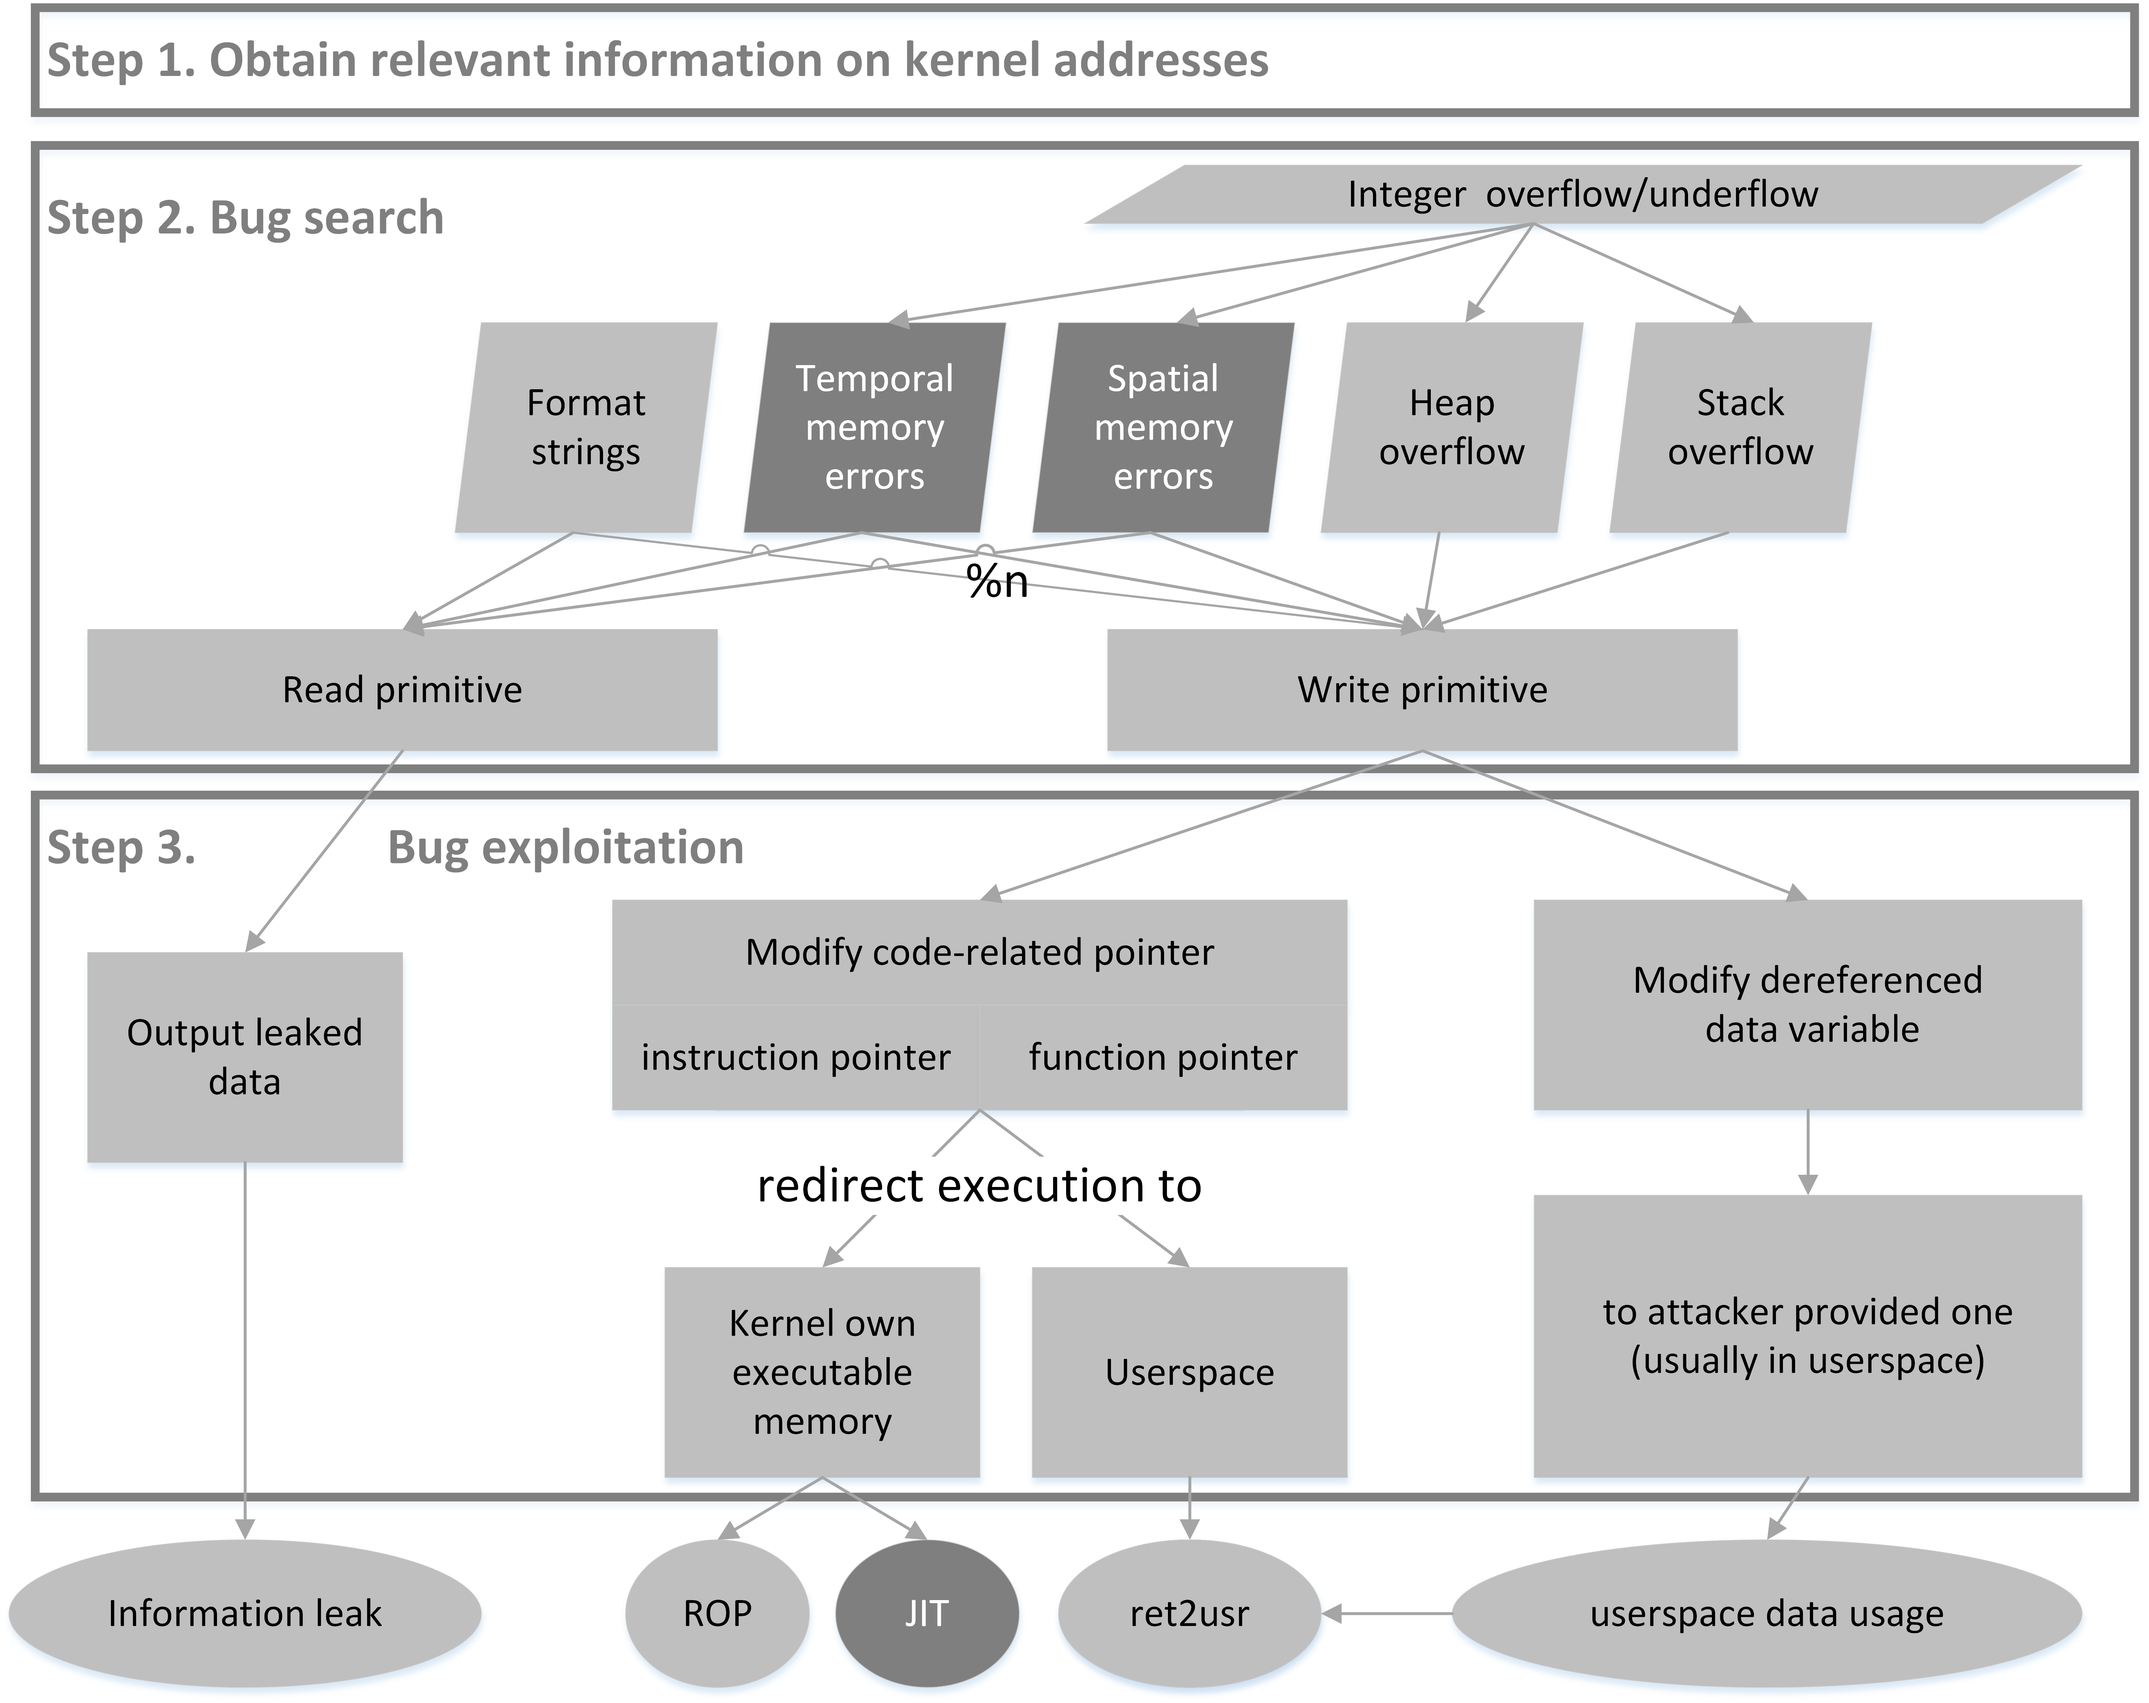
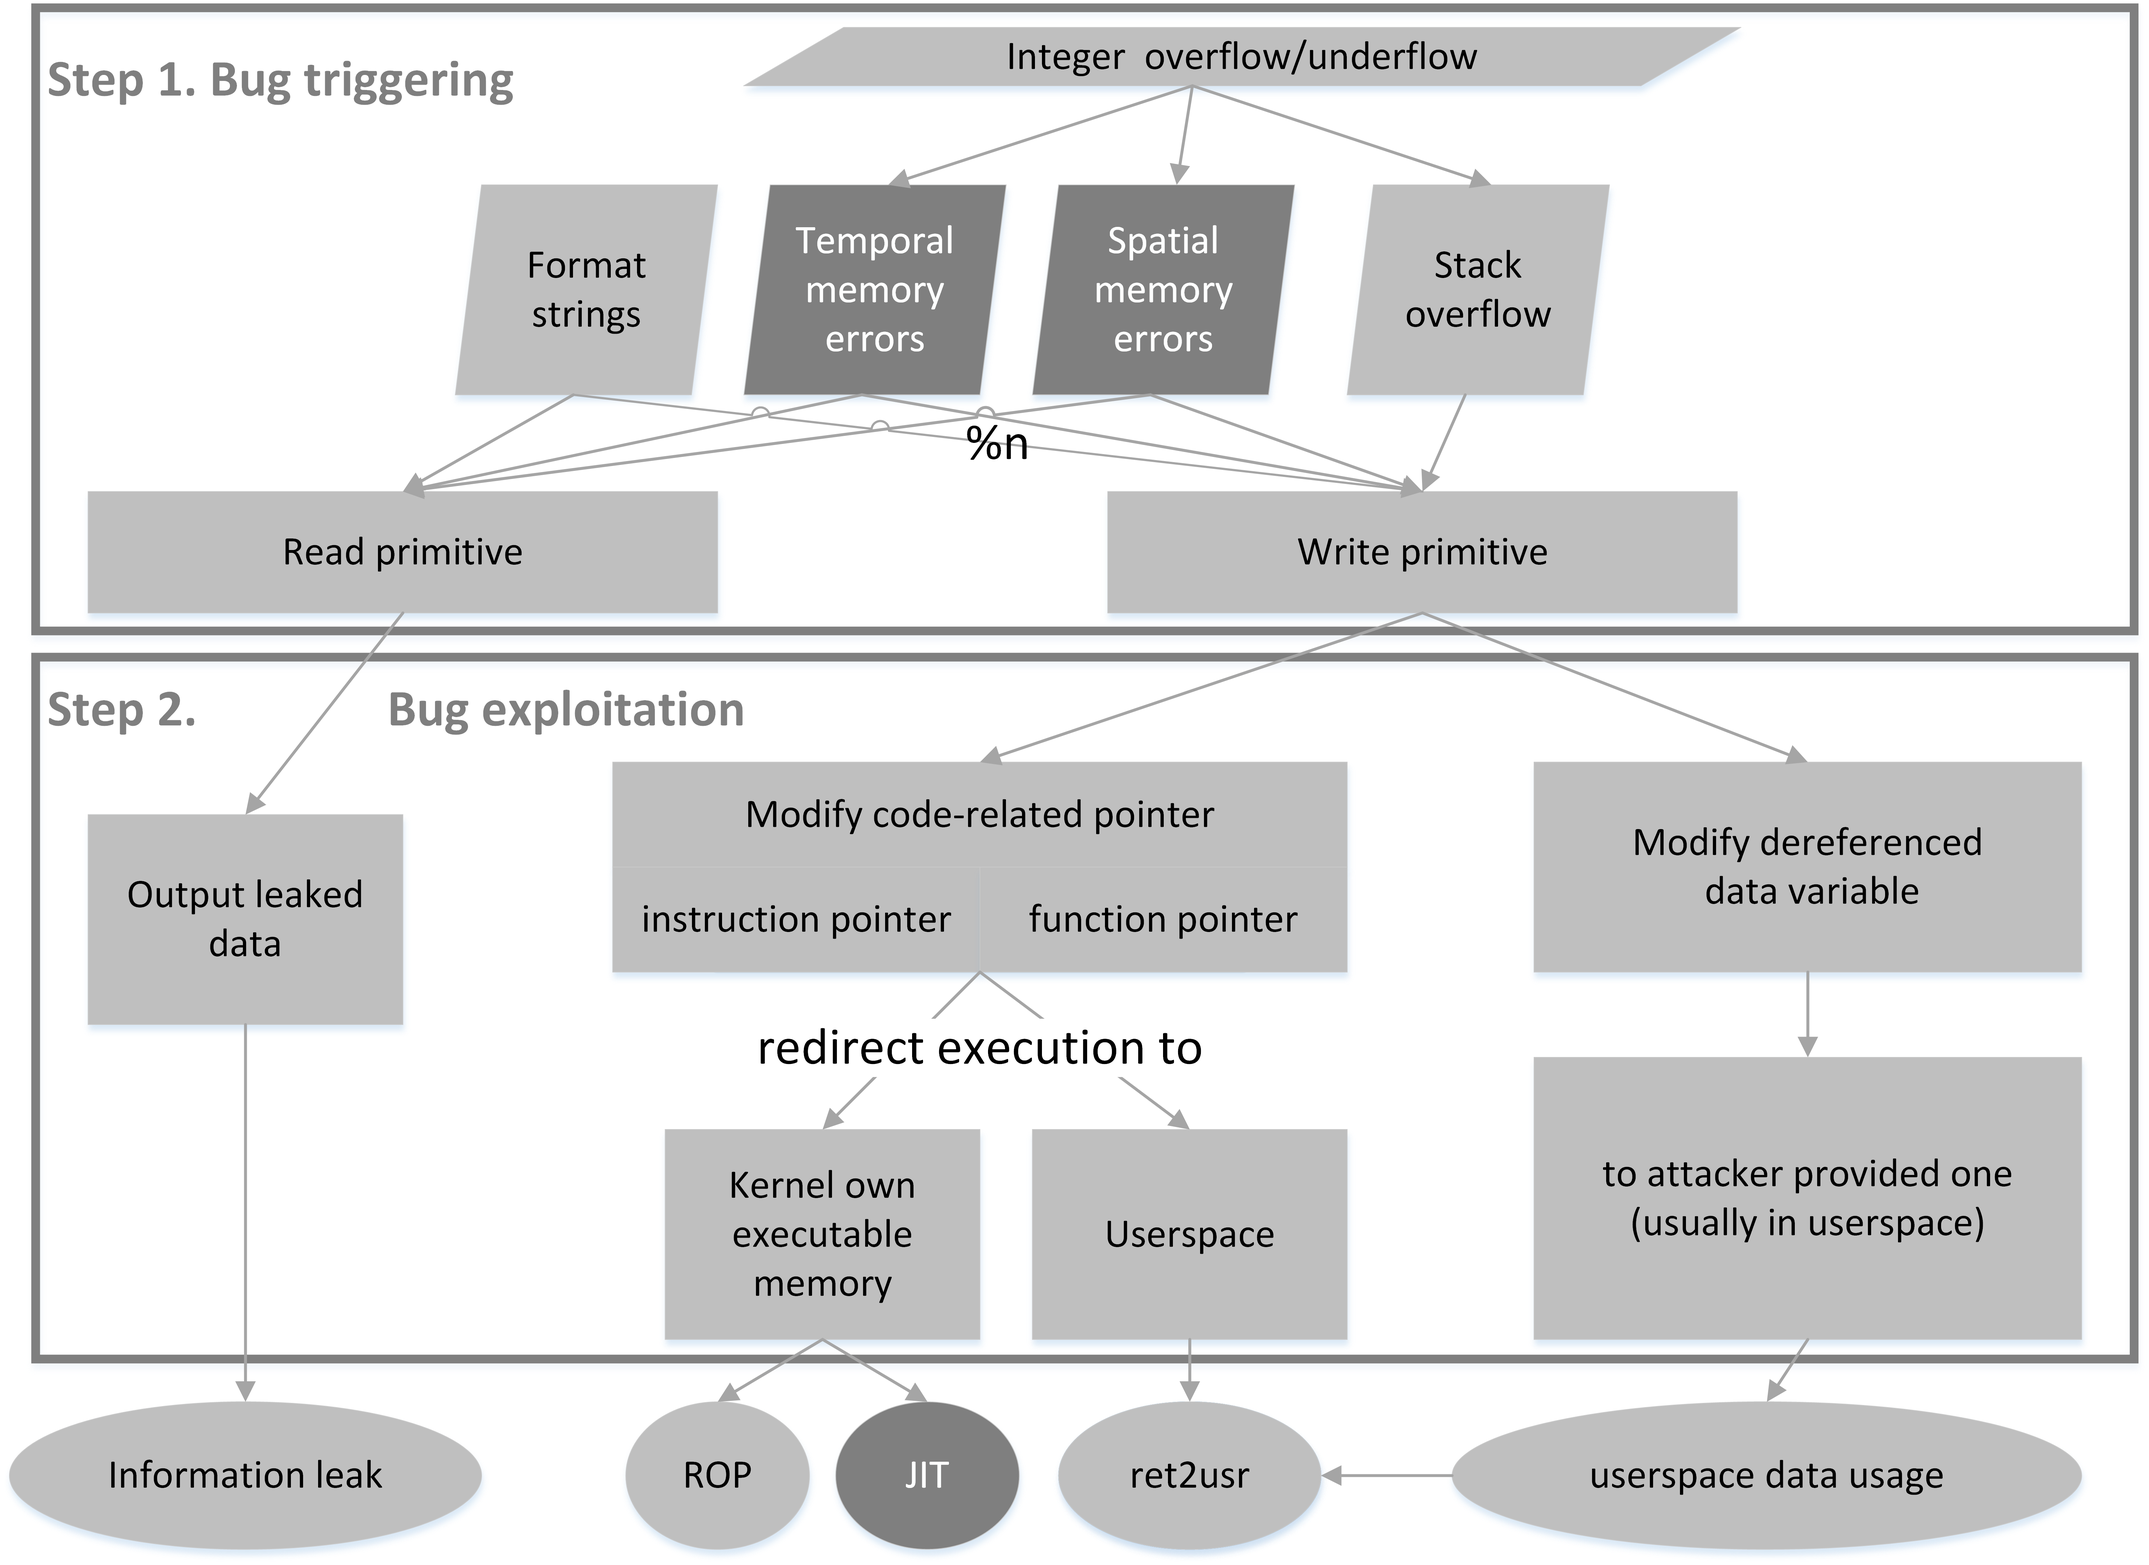
addressing comments from Thomas and Hans

diff --git a/chapters/kernel-hardening.tex b/chapters/kernel-hardening.tex
@@ -10,18 +10,18 @@ As adversaries have been turning towards attacking the Linux kernel itself, secu
 
 An alternative approach that defenders can take is to consider how modern kernel exploits are written and try to eliminate all attack paths that helps exploit writers to succeed. This is exactly the path that the Kernel Self Protection Project (KSPP)~\cite{kspp} has taken. KSPP is an open community of developers and security experts that aims to develop new or adapt existing kernel hardening measures for the mainline Linux kernel. 
 
-\textbf{Structure of kernel attacks:}   Figure~\ref{fig:exploit-steps} shows how a typical attack on the Linux kernel is carried out. In Step 1, an attacker usually spends time to explore the target kernel offline in order to collect as much information about it as possible. This step is usually performed with high privileges and an attacker has a full access to the kernel memory layout, various debugging and tracing tools etc. Preventing this step is impossible due to the open nature of the Linux operating system, but various protection methods can be employed to minimize the value of collected information. For example, Kernel Address Space Layout Randomization (KASLR)~\cite{cook2013} and other techniques such as \setype{GRKERNSEC\_RANDSTRUCT}~\cite{randstruct2017} can make sure that every time a Linux kernel is loaded on the system, the memory locations of many of its components are randomized, and therefore an attacker cannot use the information collected during Step 1 to locate required kernel elements (modules, symbols, structures etc.) during the later steps of a run-time attack. 
+\textbf{Structure of kernel attacks:}   Figure~\ref{fig:exploit-steps} shows the two core run-time steps of a typical attack on the Linux kernel\footnote{In practice a kernel exploit usually has many more additional steps since it might need to fingerprint the target in run-time, bypass various enabled protections, perform necessary information gathering, etc.}. The starting assumption is that an attacker already has a full control of a userspace process locally on the platform. While developing an exploit, an attacker usually spends a considerable amount of time to explore the target kernel offline in order to collect as much information about it as possible, search for the suitable bug to exploit, etc. During this offline preparation step an attacker is able to get a full access to the kernel memory layout, various debugging and tracing tools etc. Preventing this step is impossible due to the open nature of the Linux operating system, but various protection methods can be employed to minimize the value of collected information. For example, Kernel Address Space Layout Randomization (KASLR)~\cite{cook2013} and other techniques such as \setype{GRKERNSEC\_RANDSTRUCT}~\cite{randstruct2017} can make sure that every time a Linux kernel is loaded on the system, the memory locations of many of its components are randomized, and therefore an attacker cannot use the information gathered in the offline preparation step to locate required kernel elements (modules, symbols, structures etc.) during the later steps of a run-time attack. 
 
 \begin{figure}[t]
 	\centering
 		\includegraphics[width=1\textwidth]{figures/kernel_exploit_steps.png}
-	\caption{High-level overview of a kernel attack}
+	\caption{Core steps of a Linux kernel attack}
 	\label{fig:exploit-steps}
 \end{figure}    
 
-In Step 2, an attacker needs to find a suitable bug that would allow him to obtain a read or write primitive inside the Linux kernel. There are many bug classes that can be explored for this purpose and Figure~\ref{fig:exploit-steps} shows the most common ones for the Linux kernel. Some bug classes such as Heap and Stack overflows, typically lead to a write primitive, while some, like temporal and spatial memory errors (see Section~\ref{sec:kern-mem-safety} for definitions) can lead to both of them depending on the code where the bug is present. The format string vulnerabilities typically lead to a write primitive, except in cases when the format string is using \setype{\%n} specifier that allows writing input data to a pointer (and as a result, a write primitive). Integer overflow/underflow bugs do not typically give a read or write primitive straight to an attacker, but they can be used to create other bug classes. For example, if an overflown integer is used to allocate a buffer, the resulting buffer is going to be of a smaller size than required leading to a buffer overflow bug (spatial memory error). Preventing Step 2 from happening would be the ideal case for defenders, but in reality it is very difficult and costly to fully prevent certain classes of bugs from happening. Nonetheless, a lot of work is being done in this area within KSPP and Section~\ref{sec:kern-mem-safety} of this dissertation addresses the problem of preventing a wide range of memory errors in the Linux kernel. 
+In Step 1, an attacker needs to trigger a suitable bug that would allow him to obtain a read or write primitive inside the Linux kernel. There are many bug classes that can be used for this purpose and Figure~\ref{fig:exploit-steps} shows the most common ones for the Linux kernel. Some bug classes such as stack overflows, typically lead to a write primitive, while some, like temporal and spatial memory errors (see Section~\ref{sec:kern-mem-safety} for definitions) can lead to both of them depending on the code where the bug is present. The format string vulnerabilities typically lead to a write primitive, except in cases when the format string is using \setype{\%n} specifier that allows writing input data to a pointer (and as a result, a write primitive). Integer overflow/underflow bugs do not typically give a read or write primitive straight to an attacker, but they can be used to create other bug classes. For example, if an overflown integer is used to allocate a buffer, the resulting buffer is going to be of a smaller size than required leading to a buffer overflow bug (spatial memory error). Preventing Step 1 from happening would be the ideal case for defenders, but in reality it is very difficult and costly to fully prevent certain classes of bugs from happening. Nonetheless, a lot of work is being done in this area within KSPP and Section~\ref{sec:kern-mem-safety} of this dissertation addresses the problem of preventing a wide range of memory errors in the Linux kernel. 
 
-Lastly, in Step 3, an attacker can finalize the exploitation using the bug(s) found in Step 2. In case of a read primitive, the end result is usually a run-time kernel memory leak that can be either valuable on its own (various sensitive information, such as keys and credentials) or can be used as supporting information for launching further attack steps using another kernel bug. In turn, a write primitive can be used by an attacker to modify either a code-related pointer or the dereferencing of a kernel data pointer or structure. The code-related pointer can be either directly an instruction pointer (as is the case with stack overflow attacks) or a function pointer located in places such as function pointer's tables or descriptor's tables. All of this would allow an attacker to redirect the execution flow to a desired place. That place can be either the kernel's own executable memory (by building and chaining the available attack gadgets in an return-oriented programming (ROP)-like technique~\cite{Shacham2007} or using mechanisms like just-in-time (JIT) compilers~\cite{Aycock03abrief}) or the userspace (various \textit{ret2usr} attacks~\cite{Kemerlis2012}), where an attacker usually has more control over the memory layout and more mechanisms for continuing the attack and making it persistent over reboots. An attacker can also modify a data pointer (commonly to a structure located in the userspace) that might allow him to perform various data-only attacks. Many different protections can be put in place in order to prevent Step 3 from happening, but they are not generic and depend on the chosen attack path. For example, in order to prevent a function pointer overwrite, function pointer tables can be made read-only after the kernel initialization step. Similarly, in order to prevent a direct modification of an instruction stack pointer, various return address protection techniques, such as stack canaries~\cite{edge2014}, guard pages~\cite{kstackoverflow2017} etc. can be employed.   
+In Step 2, an attacker can finalize the exploitation using the bug(s) found in Step 1. In case of a read primitive, the end result is usually a run-time kernel memory leak that can be either valuable on its own (various sensitive information, such as keys and credentials) or can be used as supporting information for launching further attack steps using another kernel bug. In turn, a write primitive can be used by an attacker to modify either a code-related pointer or the dereferencing of a kernel data pointer or structure. The code-related pointer can be either directly an instruction pointer (as is the case with stack overflow attacks) or a function pointer located in places such as function pointer's tables or descriptor's tables. All of this would allow an attacker to redirect the execution flow to a desired place. That place can be either the kernel's own executable memory (by building and chaining the available attack gadgets in an return-oriented programming (ROP)-like technique~\cite{Shacham2007} or using mechanisms like just-in-time (JIT) compilers~\cite{Aycock03abrief}) or the userspace (various \textit{ret2usr} attacks~\cite{Kemerlis2012}), where an attacker usually has more control over the memory layout and more mechanisms for continuing the attack and making it persistent over reboots. An attacker can also modify a data pointer (commonly to a structure located in the userspace) that might allow him to perform various data-only attacks. Many different protections can be put in place in order to prevent Step 2 from happening, but they are not generic and depend on the chosen attack path. For example, in order to prevent a function pointer overwrite, function pointer tables can be made read-only after the kernel initialization step. Similarly, in order to prevent a direct modification of an instruction stack pointer, various return address protection techniques, such as stack canaries~\cite{edge2014}, guard pages~\cite{kstackoverflow2017} etc. can be employed.   
 
 \textbf{Research questions:}   Within the KSPP project, this dissertation has investigated two important areas of kernel hardening that are highlighted in dark grey in Figure~\ref{fig:exploit-steps}). The first research question, discussed in Section~\ref{sec:bpf-jit-attack}, is \textit{\textbf{security of Berkeley Packet Filter (BPF) JIT compiler}}, i.e. whenever the mainline Linux BPF JIT compiler can be used in order to perform successful practical attacks. The BPF JIT compiler is the only JIT compiler in the Linux kernel that executes programs supplied by unprivileged userspace, making it a very valuable target for attackers.  The second research question, discussed in Section~\ref{sec:kern-mem-safety}, is \textbf{\textbf{\textit{runtime kernel memory safety}}}, i.e. the ability to prevent kernel memory errors, such as use-after-frees or buffer overflows in runtime. Addressing these memory errors can greatly affect the overall security of the Linux kernel and help eliminate many past and future vulnerabilities. The subsections below explain each aspect in more detail as well as the contribution this dissertation makes in addressing these two research questions.  
 
